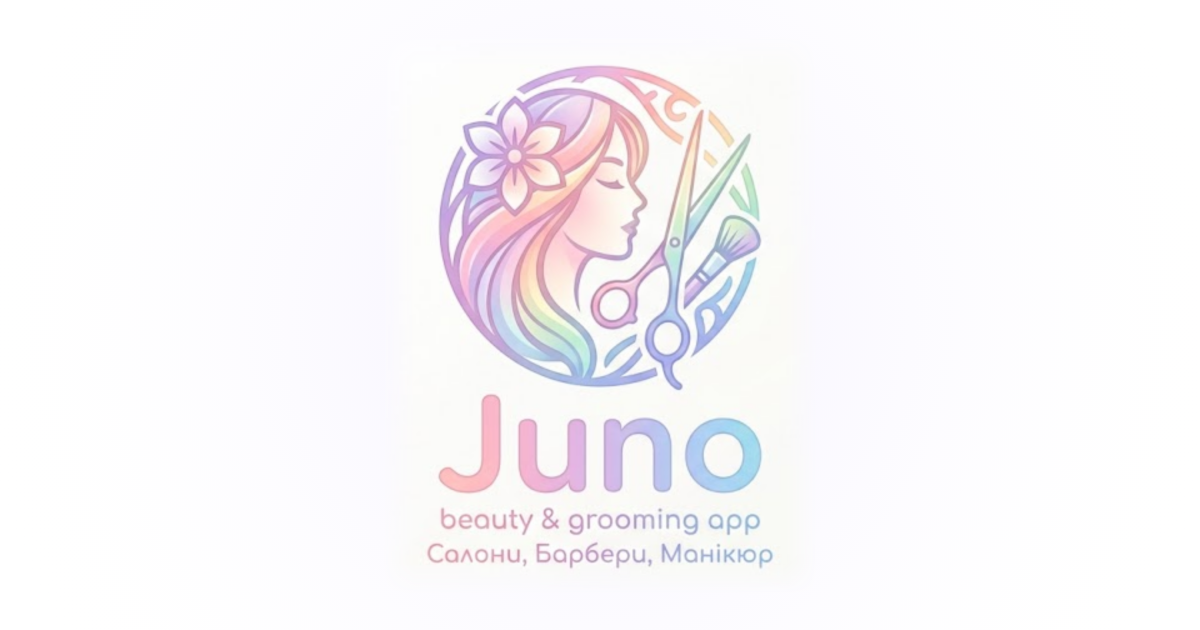
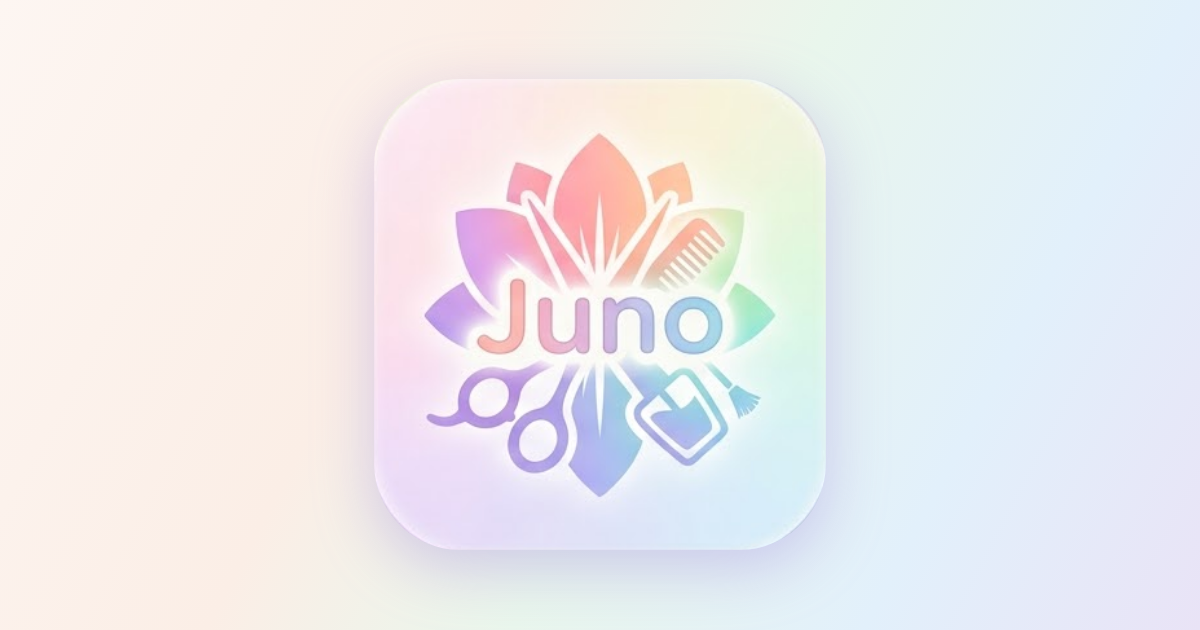
v04.10.10 — бренд Juno: лише іконка з написом Juno (логотип прибрано) на лендингу, екрані входу, превʼю й у запасному значку салону
- новий макет assets/brand/juno-brand-source.jpg (1408×768); скрипт нарізає лише іконку-плитку, превʼю для посилань — іконка на пастельному тлі
- видалено juno-logo.png (admin і landing)

Claude-Session: https://claude.ai/code/session_01F5x8mQ4ZW74JYN9AP9pVdP

diff --git a/landing/index.html b/landing/index.html
@@ -26,8 +26,8 @@ header .wrap{display:flex;align-items:center;justify-content:space-between;paddi
 .btn:hover{background:var(--acc2)}
 .hero{padding:40px 0 40px;display:flex;gap:28px;align-items:center;flex-wrap:wrap}
 .hero-text{flex:1 1 360px}
-.logo-card{flex:0 0 auto;margin:0 auto;background:#fff;border-radius:28px;padding:10px 16px;box-shadow:0 8px 40px rgba(180,150,255,.25)}
-.logo-card img{display:block;width:min(240px,62vw);height:auto}
+.hero-icon{flex:0 0 auto;margin:0 auto}
+.hero-icon img{display:block;width:min(220px,58vw);height:auto;filter:drop-shadow(0 12px 36px rgba(150,120,220,.45))}
 .eyebrow{color:var(--acc2);font-weight:700;font-size:14px;text-transform:uppercase;letter-spacing:.06em}
 h1{font-size:clamp(30px,6vw,48px);line-height:1.1;margin:12px 0 16px;letter-spacing:-.02em}
 h1 em{font-style:normal;color:var(--acc)}
@@ -51,7 +51,7 @@ footer{border-top:1px solid rgba(255,255,255,.06);padding:20px 0;color:var(--dim
 </div></header>
 <main class="wrap">
   <section class="hero">
-    <div class="logo-card"><img src="img/juno-logo.png" alt="Juno — beauty &amp; grooming app"></div>
+    <div class="hero-icon"><img src="img/icon-512.png" alt="Juno — beauty &amp; grooming app" width="220" height="220"></div>
     <div class="hero-text">
     <span class="eyebrow">Для салонів, барбершопів і майстрів</span>
     <h1>Клієнти записуються <em>самі</em>. Ви — працюєте.</h1>

diff --git a/src/salon/SalonAuth.jsx b/src/salon/SalonAuth.jsx
@@ -59,7 +59,7 @@ export function SalonLogin({ inviteCode }) {
       <div className="lg-bg" aria-hidden="true"><i /><i /><i /></div>
       <div className="lg-card">
         <div className="lg-head">
-          <div style={{ background: "#fff", borderRadius: 22, padding: "6px 10px", width: 168, margin: "0 auto 8px", boxShadow: "0 4px 18px rgba(0,0,0,0.25)" }}><img src="/juno-logo.png" alt="Juno" width="148" style={{ display: "block", width: "100%", height: "auto" }} /></div>
+          <img src="/icon-192.png" alt="Juno" width="112" height="112" style={{ display: "block", width: 112, height: 112, margin: "0 auto 10px", filter: "drop-shadow(0 6px 18px rgba(150,120,220,0.45))" }} />
           <div className="lg-title">{registering ? "Реєстрація" : "Вхід"}</div>
           <div className="lg-sub">{inviteCode ? "Вас запросили як майстра — увійдіть або зареєструйтесь" : registering ? "Реєстрація · 14 днів безкоштовно" : "Вхід для власника і майстрів"}</div>
         </div>

diff --git a/src/salon/index.jsx b/src/salon/index.jsx
@@ -137,7 +137,7 @@ function Shell({ user, session, setThemeMode, mode }) {
     <SalonCtx.Provider value={ctx}>
       <div style={{ maxWidth: 720, margin: "0 auto", paddingBottom: "calc(86px + env(safe-area-inset-bottom,0px))" }}>
         <div style={{ display: "flex", alignItems: "center", gap: 10, padding: "calc(10px + env(safe-area-inset-top,0px)) 14px 8px" }}>
-          {profile.logo ? <Avatar url={profile.logo} name={profile.name} size={34} radius={10} /> : <div style={{ fontSize: 22 }}>💈</div>}
+          <Avatar url={profile.logo || "/icon-192.png"} name={profile.name} size={34} radius={10} />
           <div style={{ flex: 1, minWidth: 0 }}>
             <div style={{ fontSize: 15, fontWeight: 900, overflow: "hidden", textOverflow: "ellipsis", whiteSpace: "nowrap" }}>{profile.name || "Салон"}</div>
             <div style={{ fontSize: 11, color: th.DIM }}>{role === "owner" ? "Власник" : `Майстер · ${masters.find((m) => m.id === masterId)?.profile?.name || ""}`}</div>

diff --git a/src/version.js b/src/version.js
@@ -1,1 +1,1 @@
-export const APP_VERSION = "v04.10.9";
+export const APP_VERSION = "v04.10.10";

diff --git a/README.md b/README.md
@@ -14,5 +14,5 @@ npm run build
 
 Гілка `main` містить повну копію DrivePad на момент створення Juno; розробка Juno — в інших гілках.
 
-Бренд: макет `assets/brand/juno-brand-source.jpg` (логотип + іконка); усі PNG (іконки PWA, maskable, apple-touch, фавікон, превʼю для посилань, логотип) пересобираються
+Бренд: макет `assets/brand/juno-brand-source.jpg` (іконка Juno); усі PNG (іконки PWA, maskable, apple-touch, фавікон, превʼю для посилань) пересобираються
 `node scripts/make-brand-assets.mjs [макет.jpg] [шлях/до/Juno-client]`. Для різкіших іконок потрібен макет більшого розміру.
